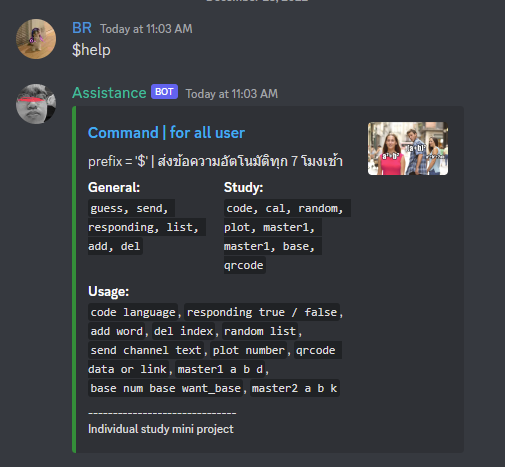
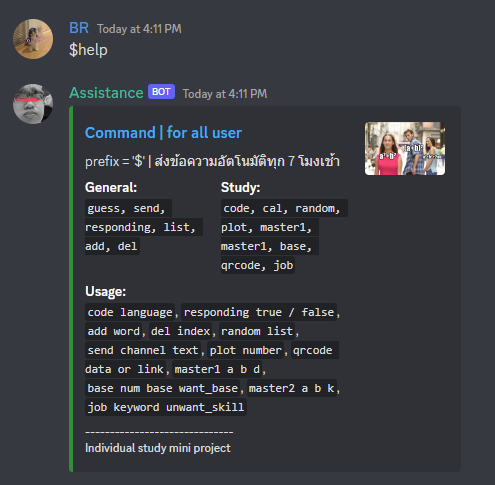
job web scrapper

Changed region(s): [[0.0303, 0.03, 0.697, 0.9893], [0.7273, 0.2398, 0.9091, 0.3897]]

diff --git a/main.py b/main.py
@@ -9,6 +9,7 @@ import matplotlib.pyplot as plt
 from replit import db
 from datetime import datetime
 from keep_alive import keep_alive
+from web_scrapping import find_jobs
 from apscheduler.triggers.cron import CronTrigger
 from apscheduler.schedulers.asyncio import AsyncIOScheduler
 
@@ -286,11 +287,12 @@ class MyClient(discord.Client):
                             value="`guess, send, responding, list, add, del`",
                             inline=True)
             embed.add_field(name="Study:",
-                            value="`code, cal, random, plot, master1, master1, base, qrcode`",
+                            value="`code, cal, random, plot, master1, master1, base, qrcode, job`",
                             inline=True)
             embed.add_field(
                 name="Usage:",
-                value="`code language`, `responding true / false`, \n`add word`, `del index`, `random list`, \n`send channel text`, `plot number`, `qrcode data or link`, `master1 a b d`, \n`base num base want_base`, `master2 a b k`",
+                value=
+                "`code language`, `responding true / false`, \n`add word`, `del index`, `random list`, \n`send channel text`, `plot number`, `qrcode data or link`, `master1 a b d`, \n`base num base want_base`, `master2 a b k`, \n`job keyword unwant_skill`",
                 inline=False)
             embed.set_footer(text="-" * 30 + "\nIndividual study mini project")
             await message.channel.send(embed=embed)
@@ -569,6 +571,30 @@ class MyClient(discord.Client):
             embedVar = discord.Embed(title="From base " + str(base), description=value, color=0xa84300)
             embedVar.add_field(name="Convert to base " + str(convert_base), value=f"||`{result.strip()}`||", inline=False)
             await message.channel.send(embed=embedVar)
+
+        # jobs seeker with csv file
+        if msg.startswith("$job"):
+            attr = msg.split("$job", 1)[1].split()
+            if (len(attr) == 0):
+                await message.channel.send("__**usage**__: `$job keyword unwanted_skill`")
+                return
+            else:
+                if (len(attr) > 2):
+                    await message.channel.send("*Invalid Input..*")
+                    return
+
+                keyword, unwant_skill = attr
+                df = find_jobs(keyword, unwant_skill)
+                df = df.drop(['Job Description', 'More Information', 'Skills Required'], axis=1)
+                
+                length = df.shape[0]
+                df = df.head(5).to_string()
+
+            embedVar = discord.Embed(title=f"All Jobs with {keyword} skill", description=f"filter out {unwant_skill}", color=0xa84300)
+            embedVar.add_field(name=f"Found {length} jobs", value=f"```{df}```", inline=False)
+            await message.channel.send(embed=embedVar)
+            await message.channel.send("for more detail please check `csv file`")
+            await message.channel.send(file=discord.File(".\\assets\\jobs.csv"))
 
 
 # driver

diff --git a/web_scrapping.py b/web_scrapping.py
@@ -1,0 +1,40 @@
+from bs4 import BeautifulSoup
+import pandas as pd
+import requests
+
+
+def find_jobs(keyword, unwanted_skill):
+    location = "Thailand"
+    DOMAIN = "https://www.timesjobs.com/candidate/job-search.html?searchType=personalizedSearch"
+    FILTER = f"&from=submit&txtKeywords={keyword}&txtLocation={location}"
+
+    html = requests.get(DOMAIN + FILTER).text
+    soup = BeautifulSoup(html, "html.parser")
+    work = soup.find_all('li', class_ = 'clearfix job-bx wht-shd-bx')
+
+    jobs = {
+		'Company Name': [], 
+		'Skills Required': [],
+		'Job Description': [],
+		'More Information': []
+    }
+    for candidate in work:
+        published_date = candidate.find('span', class_ = 'sim-posted').span.text
+
+        if 'few' in published_date:
+            company_name  = candidate.find('h3', class_ = 'joblist-comp-name').text.replace(' ', '')
+            descriptions  = candidate.find('ul', class_ = 'list-job-dtl clearfix').li.text.replace('  ', ' ')
+            descriptions  = descriptions.split('...')[0].split(':')[1].replace('Overview', '')
+            skill_require = candidate.find('span', class_ = 'srp-skills').text.replace('  ', ' ')
+            more_detailed = candidate.header.h2.a['href']
+
+            if unwanted_skill in skill_require: continue
+            jobs['Company Name']    += [company_name.strip()]
+            jobs['Skills Required'] += [skill_require.strip()]
+            jobs['Job Description'] += [descriptions.strip()]
+            jobs['More Information'] += [more_detailed.strip()]
+
+    # save to csv file
+    DF = pd.DataFrame(jobs)
+    DF.to_csv(".\\assets\\jobs.csv", encoding='utf-8')
+    return DF

diff --git a/README.md b/README.md
@@ -16,3 +16,7 @@
 - QR-code
 <p align="middle">
 <img src="./resources/image4.png" height="400"></a>
+
+- Job Finder
+<p align="middle">
+<img src="./resources/image5.png" height="400"></a>
